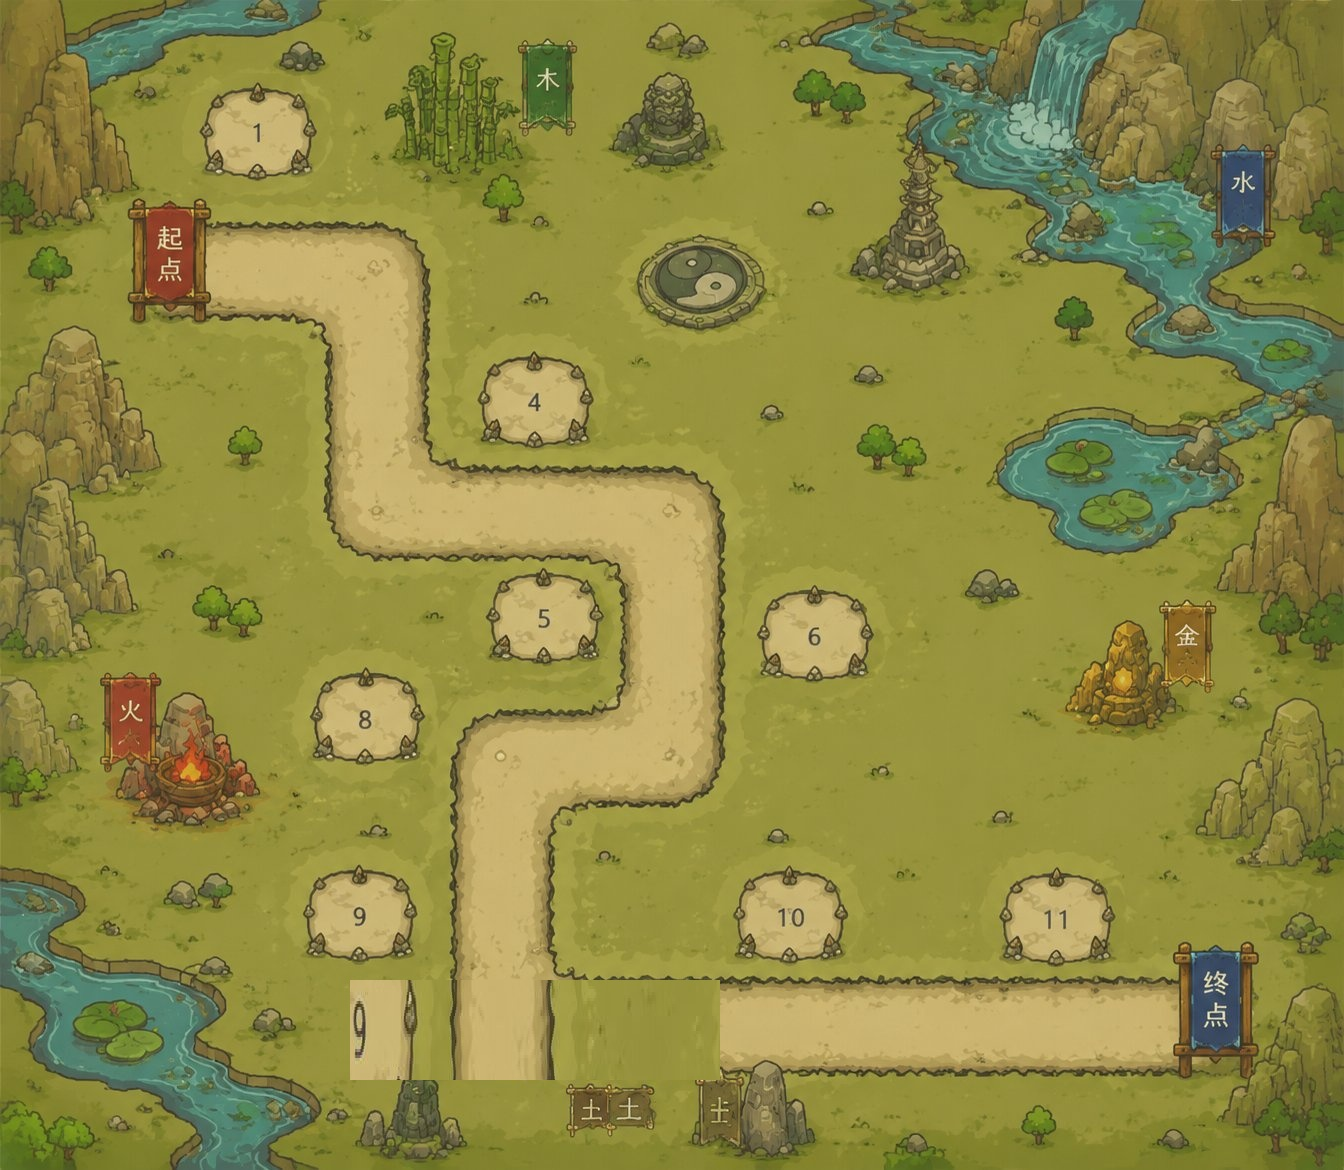
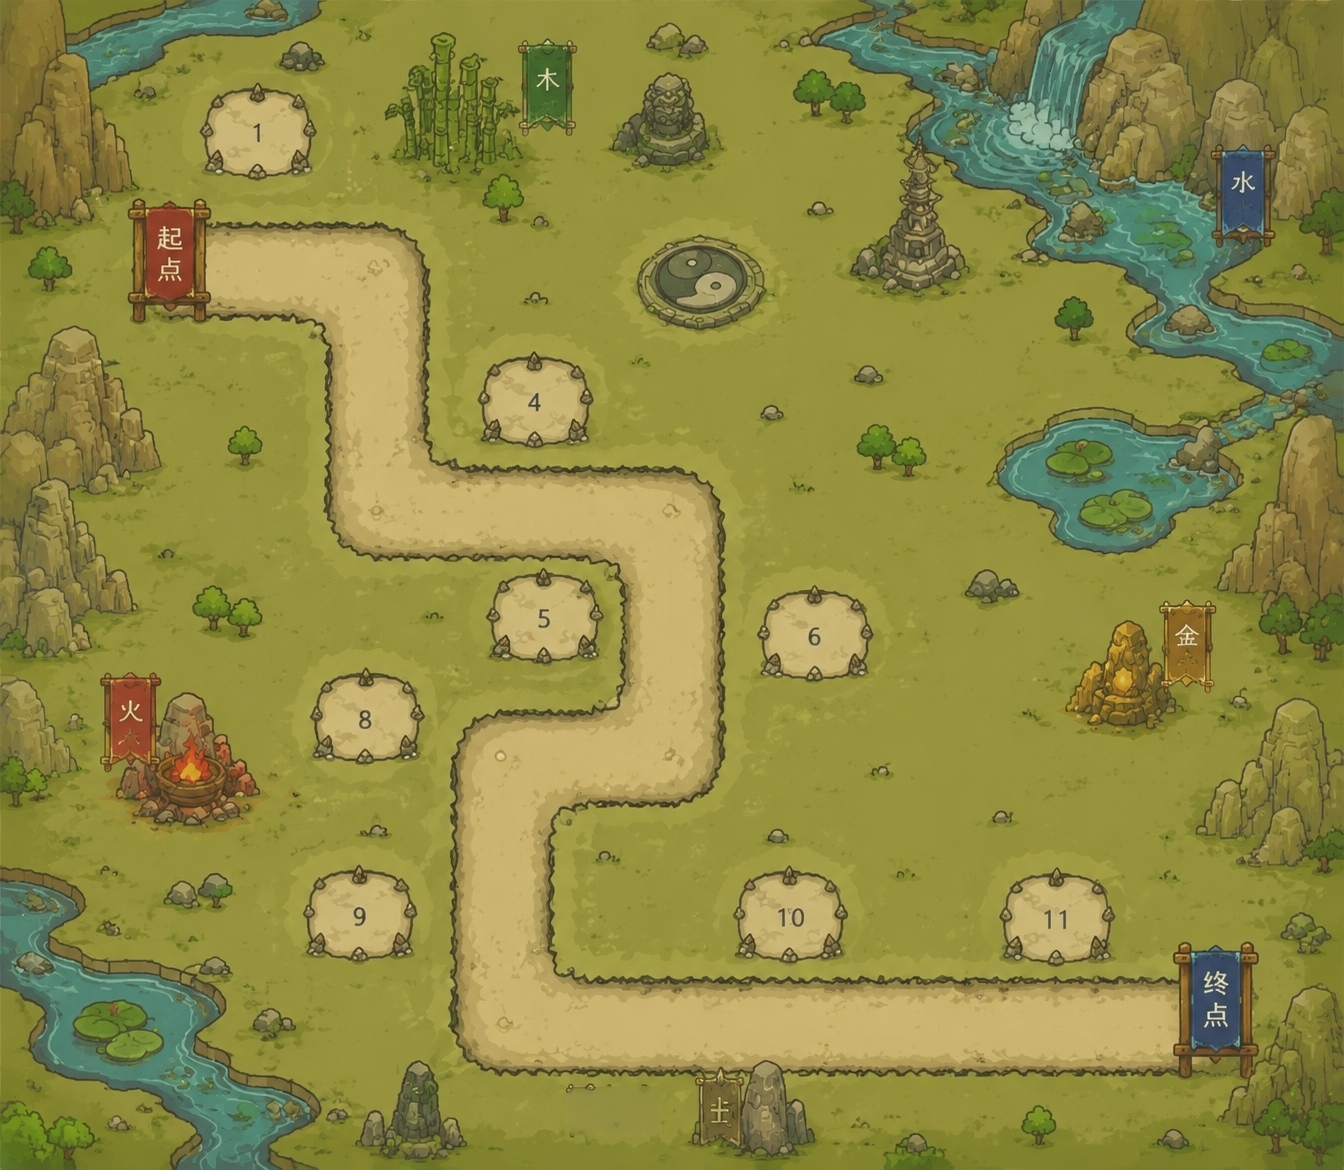
v0.1.3: 新地图+新敌人素材+塔比例调整+移动动画

Changed region(s): [[0.25, 0.8308, 0.5625, 0.9846]]

diff --git a/js/entities/Enemy.js b/js/entities/Enemy.js
@@ -16,11 +16,14 @@ class Enemy {
     this.reachedEnd = false;
     this.dead = false;
     this.active = true;
-    this.blockedBy = null; // 被哪个石头人挡住
+    this.blockedBy = null;
+    this.facing = 'right'; // 当前朝向
+    this.walkTimer = 0;    // 行走动画计时器
+    this.bobOffset = 0;    // 上下弹跳偏移
 
-    // 使用素材图片
-    this.sprite = scene.add.sprite(x, y, 'enemy_imp');
-    this.sprite.setScale(0.04);
+    // 使用精灵表素材
+    this.sprite = scene.add.sprite(x, y, 'enemy_mage');
+    this.sprite.setScale(0.20);
     this.sprite.setDepth(5);
 
     // 血条背景
@@ -35,11 +38,11 @@ class Enemy {
   }
 
   updateGraphicsPosition() {
-    this.sprite.setPosition(this.x, this.y);
+    this.sprite.setPosition(this.x, this.y + this.bobOffset);
     this.hpBarBg.clear();
     this.hpBarBg.fillStyle(0x333333, 0.8);
     const barW = this.size * 2.5;
-    this.hpBarBg.fillRect(this.x - barW/2, this.y - this.size - 18, barW, 5);
+    this.hpBarBg.fillRect(this.x - barW/2, this.y - this.size - 22, barW, 5);
     this.updateHPBar();
   }
 
@@ -51,7 +54,7 @@ class Enemy {
     const barW = this.size * 2.5 * ratio;
     const totalW = this.size * 2.5;
     this.hpBar.fillStyle(barColor, 1);
-    this.hpBar.fillRect(this.x - totalW/2, this.y - this.size - 18, barW, 5);
+    this.hpBar.fillRect(this.x - totalW/2, this.y - this.size - 22, barW, 5);
   }
 
   setPath(pathPoints) {
@@ -124,7 +127,6 @@ class Enemy {
     this.dead = true;
   }
 
-  // 检查是否被石头人挡住
   checkBlockedByGolem() {
     if (!this.scene.golems || this.scene.golems.length === 0) {
       this.blockedBy = null;
@@ -142,10 +144,37 @@ class Enemy {
     return false;
   }
 
+  // 根据移动方向更新朝向和帧
+  updateFacing(dx, dy) {
+    const absDx = Math.abs(dx);
+    const absDy = Math.abs(dy);
+
+    if (absDx > absDy) {
+      // 水平移动
+      if (dx > 0) {
+        this.facing = 'right';
+        this.sprite.setFrame(2);
+        this.sprite.setFlipX(false);
+      } else {
+        this.facing = 'left';
+        this.sprite.setFrame(0);
+        this.sprite.setFlipX(false);
+      }
+    } else {
+      // 垂直移动
+      if (dy > 0) {
+        this.facing = 'down';
+        this.sprite.setFrame(1);
+      } else {
+        this.facing = 'up';
+        this.sprite.setFrame(3);
+      }
+    }
+  }
+
   moveAlongPath(delta) {
     if (!this.path || this.dead || this.reachedEnd) return;
 
-    // 如果被石头人挡住，停下
     if (this.checkBlockedByGolem()) {
       return;
     }
@@ -155,6 +184,7 @@ class Enemy {
     const dx = target.x - this.x;
     const dy = target.y - this.y;
     const dist = Math.sqrt(dx * dx + dy * dy);
+
     if (dist < 3) {
       this.pathIndex++;
       if (this.pathIndex >= this.path.length) {
@@ -165,6 +195,13 @@ class Enemy {
       const moveAmount = this.speed * delta / 1000;
       this.x += (dx / dist) * moveAmount;
       this.y += (dy / dist) * moveAmount;
+
+      // 更新朝向
+      this.updateFacing(dx, dy);
+
+      // 行走弹跳效果（模拟迈步）
+      this.walkTimer += delta;
+      this.bobOffset = Math.sin(this.walkTimer * 0.012) * 3;
     }
     this.updateGraphicsPosition();
   }

diff --git a/js/scenes/BootScene.js b/js/scenes/BootScene.js
@@ -12,8 +12,11 @@ class BootScene extends Phaser.Scene {
     this.load.image('tower_ember_spirit', 'assets/images/towers/ember_spirit.png');
     this.load.image('tower_stone_wall', 'assets/images/towers/stone_wall.png');
 
-    // 加载敌人素材
-    this.load.image('enemy_imp', 'assets/images/enemies/imp_front.png');
+    // 加载敌人精灵表（4帧：左/正/右/背）
+    this.load.spritesheet('enemy_mage', 'assets/images/enemies/enemy_spritesheet.png', {
+      frameWidth: 249,
+      frameHeight: 278
+    });
 
     // 加载小石头人素材
     this.load.image('stone_golem', 'assets/images/enemies/stone_golem.png');
@@ -52,6 +55,19 @@ class BootScene extends Phaser.Scene {
     gfx.fillCircle(2, 2, 2);
     gfx.generateTexture('bullet', 4, 4);
     gfx.destroy();
+
+    // 创建敌人行走动画（上下弹跳感）
+    this.anims.create({
+      key: 'mage_walk',
+      frames: [
+        { key: 'enemy_mage', frame: 0 },
+        { key: 'enemy_mage', frame: 2 },
+        { key: 'enemy_mage', frame: 0 },
+        { key: 'enemy_mage', frame: 2 }
+      ],
+      frameRate: 6,
+      repeat: -1
+    });
 
     this.scene.start('GameScene');
   }

diff --git a/js/entities/Tower.js b/js/entities/Tower.js
@@ -17,16 +17,10 @@ class Tower extends Phaser.GameObjects.Container {
     this.isAttacking = false;
     this.golems = []; // 石垒召唤的小石头人
 
-    // 塔本体：使用 PNG 素材
+    // 塔本体：使用 PNG 素材，比例调大让底座匹配塔位圈（半径28px ≈ 直径56px）
     this.towerSprite = scene.add.sprite(0, 0, config.imageKey);
-    this.towerSprite.setScale(0.065);
+    this.towerSprite.setScale(0.12);
     this.add(this.towerSprite);
-
-    // 底座光圈（半透明地基）
-    this.baseCircle = scene.add.graphics();
-    this.baseCircle.fillStyle(0xffffff, 0.06);
-    this.baseCircle.fillCircle(0, 0, 24);
-    this.add(this.baseCircle);
 
     // 攻击范围圈
     this.rangeCircle = scene.add.graphics();
@@ -53,7 +47,7 @@ class Tower extends Phaser.GameObjects.Container {
     this.range = Math.floor(this.range * 1.1);
     this.attackSpeed = Math.floor(this.attackSpeed * 0.85);
 
-    this.towerSprite.setScale(0.075);
+    this.towerSprite.setScale(0.14);
 
     this.rangeCircle.clear();
     this.rangeCircle.lineStyle(1.5, this.color, 0.2);
@@ -175,7 +169,7 @@ class Tower extends Phaser.GameObjects.Container {
       hpBarBg: this.scene.add.graphics()
     };
 
-    golem.sprite.setScale(0.10);
+    golem.sprite.setScale(0.20);
     golem.sprite.setDepth(4);
 
     // 血条
@@ -185,8 +179,8 @@ class Tower extends Phaser.GameObjects.Container {
     golem.sprite.setScale(0);
     this.scene.tweens.add({
       targets: golem.sprite,
-      scaleX: 0.10,
-      scaleY: 0.10,
+      scaleX: 0.20,
+      scaleY: 0.20,
       duration: 400,
       ease: 'Back.easeOut'
     });

diff --git a/js/scenes/GameScene.js b/js/scenes/GameScene.js
@@ -184,10 +184,15 @@ class GameScene extends Phaser.Scene {
     this.towerSpotZones = [];
     
     this.currentLevel.towerSpots.forEach((spot, index) => {
+      // 先画一层底色遮住地图上的数字
+      const cover = this.add.circle(spot.x, spot.y, 22, 0xc8b88a, 0.85);
+      cover.setDepth(1);
+      
       // 半透明光圈表示可建造位置
       const circle = this.add.circle(spot.x, spot.y, 28, 0xffff00, 0.15);
       circle.setStrokeStyle(1.5, 0xffff00, 0.4);
       circle.setInteractive({ useHandCursor: true });
+      circle.setDepth(2);
       
       // 悬停高亮
       circle.on('pointerover', () => {
@@ -206,7 +211,7 @@ class GameScene extends Phaser.Scene {
         this.handleSpotClick(spot, circle);
       });
       
-      this.towerSpotZones.push({ spot, circle });
+      this.towerSpotZones.push({ spot, circle, cover });
     });
   }
 
@@ -307,10 +312,16 @@ class GameScene extends Phaser.Scene {
       ease: 'Back.easeOut'
     });
     
-    // 隐藏塔位标记
+    // 隐藏塔位标记和数字遮罩
     circle.setFillStyle(0xffff00, 0.05);
     circle.setStrokeStyle(1, 0xffff00, 0.1);
     circle.disableInteractive();
+    
+    // 找到对应的cover并隐藏
+    const spotData = this.towerSpotZones.find(z => z.spot === spot);
+    if (spotData && spotData.cover) {
+      spotData.cover.setAlpha(0);
+    }
     
     // 更新所选塔类型（继续建造同类型）
     // this.selectedTowerType = null; // 取消注释则每次造完需要重新选择

diff --git a/process_enemy.py b/process_enemy.py
@@ -1,0 +1,115 @@
+from PIL import Image
+import os
+
+img = Image.open(r"C:\Users\Administrator\.workbuddy\clipboard-images\clipboard-2026-07-22T10-18-17-620Z-c7adfb75.jpg")
+img = img.convert("RGBA")
+pixels = img.load()
+w, h = img.size
+print(f"Original: {w}x{h}")
+
+# 去背景 - 浅桔色/米色
+bg_r, bg_g, bg_b = 185, 170, 130
+for y in range(h):
+    for x in range(w):
+        r, g, b, a = pixels[x, y]
+        if abs(r - bg_r) < 50 and abs(g - bg_g) < 50 and abs(b - bg_b) < 50:
+            pixels[x, y] = (0, 0, 0, 0)
+
+# 找下面4个小图区域：从上往下扫，找大段空白行
+row_alphas = []
+for y in range(h):
+    total = sum(pixels[x, y][3] for x in range(w))
+    row_alphas.append(total)
+
+# 找最长连续空白区间作为大图和小图的分割
+best_start, best_len = 0, 0
+cur_start = None
+for y in range(h//4, 3*h//4):
+    if row_alphas[y] < 2000:
+        if cur_start is None:
+            cur_start = y
+    else:
+        if cur_start is not None:
+            length = y - cur_start
+            if length > best_len:
+                best_len = length
+                best_start = cur_start
+            cur_start = None
+
+split_y = best_start + best_len // 2
+print(f"Split y={split_y}, gap={best_len}px")
+
+# 裁剪下面4小图
+bottom = img.crop((0, split_y + 10, w, h))
+bb = bottom.getbbox()
+if bb:
+    bottom = bottom.crop(bb)
+bw, bh = bottom.size
+print(f"Bottom cropped: {bw}x{bh}")
+
+# 4个小图水平排列，找垂直分割线
+col_alphas = []
+for x in range(bw):
+    total = sum(bottom.getpixel((x, y))[3] for y in range(bh))
+    col_alphas.append(total)
+
+# 找3条分割线（白线/空白列）
+gaps = []
+in_gap = False
+gap_start = 0
+for x in range(1, bw-1):
+    if col_alphas[x] < 1000 and col_alphas[x-1] > 2000:
+        in_gap = True
+        gap_start = x
+    if in_gap and col_alphas[x] > 2000:
+        gaps.append((gap_start + x) // 2)
+        in_gap = False
+
+print(f"Vertical gaps: {gaps}")
+
+# 可能找到的分割线数量不准确，用简单方式：均分4等份
+frame_w = bw // 4
+print(f"Frame width (auto): {frame_w}")
+
+# 手动裁剪4帧
+frames = []
+for i in range(4):
+    x1 = i * frame_w
+    x2 = x1 + frame_w
+    # 在每个区域内找精确的非透明边界
+    region = bottom.crop((x1, 0, x2, bh))
+    fbb = region.getbbox()
+    if fbb:
+        # 裁剪到内容，但保持居中
+        frame = region.crop((fbb[0], 0, fbb[2], region.size[1]))
+        # 统一帧大小
+        frame = frame.resize((frame_w, bh), Image.LANCZOS)
+    else:
+        frame = region
+    frames.append(frame)
+
+# 保持每帧宽高一致
+frame_h = min(f.size[1] for f in frames)
+for i, f in enumerate(frames):
+    f = f.resize((frame_w, frame_h), Image.LANCZOS)
+    # 确保等比
+    ratio = min(frame_w / f.size[0], frame_h / f.size[1])
+    new_w = int(f.size[0] * ratio * 0.9)
+    new_h = int(f.size[1] * ratio * 0.9)
+    f = f.resize((new_w, new_h), Image.LANCZOS)
+    frames[i] = f
+
+# 4帧方向: 左/正/右/背
+# 创建横向精灵表，统一尺寸
+max_h = max(f.size[1] for f in frames)
+max_w = max(f.size[0] for f in frames)
+
+spritesheet = Image.new("RGBA", (max_w * 4, max_h), (0, 0, 0, 0))
+for i, f in enumerate(frames):
+    ox = i * max_w + (max_w - f.size[0]) // 2
+    oy = (max_h - f.size[1]) // 2
+    spritesheet.paste(f, (ox, oy), f)
+
+out_path = r"G:\游戏开发\tower-defense\assets\images\enemies\enemy_spritesheet.png"
+spritesheet.save(out_path)
+print(f"Spritesheet saved: {spritesheet.size} -> {out_path}")